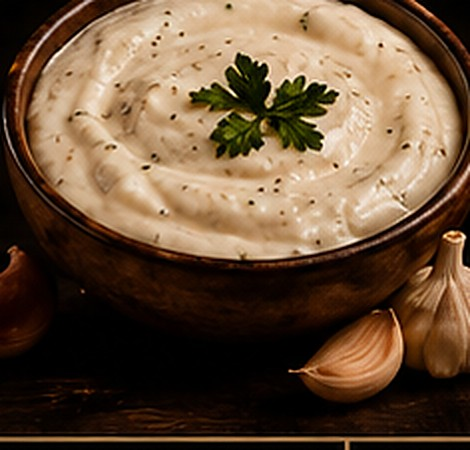
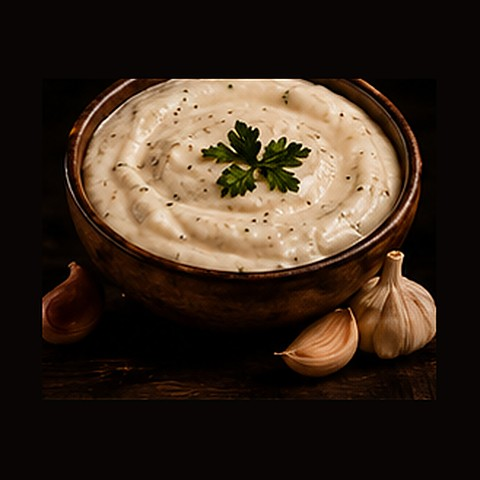
Shawarma Queen: real-inbox forms, contact links, reframed sauces, drop board
Launch-readiness pass:
- Wire the order + catering forms to a real email inbox via Web3Forms
  (no backend), with a graceful mailto fallback until the free access
  key is added. Payment stays in secure 4242 test mode.
- Replace placeholder Instagram / guessed Yelp links in the nav, mobile
  menu and footer with real Call + Get-directions actions (no live
  social accounts yet).
- Reframe the Garlic/Boom/Queen sauce photos with even dark margin so
  they sit framed instead of looking squeezed; give the garlic combo
  chip a bowl-filling crop to match the other sides.
- Remove the menu-board photo from the bottom of the menu.
- Bump the service worker cache to sq-v17.

Claude-Session: https://claude.ai/code/session_011DR8cieTFumMsx7RtYSGfN

diff --git a/sites/shawarma-queen/js/main.js b/sites/shawarma-queen/js/main.js
@@ -2,6 +2,29 @@
    All entrance states are set from JS so the page is fully
    readable with JavaScript disabled. */
 
+/* ── Shared form delivery ──────────────────────────────────────────
+   Order + catering submissions land in the shop's real email inbox via
+   Web3Forms (no backend, no build step). Paste the free access key below
+   — get one in ~30 seconds at https://web3forms.com by entering the
+   destination email; submissions are then delivered to that address.
+   Until a key is set, SQForms.hasInbox() is false and the forms fall
+   back to a prefilled mailto so nothing breaks. */
+window.SQForms = (function () {
+  var WEB3FORMS_KEY = ""; /* TODO: paste the Web3Forms access key here to go live */
+  return {
+    hasInbox: function () { return !!WEB3FORMS_KEY; },
+    send: function (subject, fields) {
+      var payload = { access_key: WEB3FORMS_KEY, subject: subject };
+      for (var k in fields) if (fields.hasOwnProperty(k)) payload[k] = fields[k];
+      return fetch("https://api.web3forms.com/submit", {
+        method: "POST",
+        headers: { "Content-Type": "application/json", Accept: "application/json" },
+        body: JSON.stringify(payload)
+      }).then(function (r) { return r.ok; }).catch(function () { return false; });
+    }
+  };
+})();
+
 (function () {
   "use strict";
 
@@ -41,9 +64,9 @@
     if (e.key === "Escape" && !mobileMenu.hidden) setMenu(false);
   });
 
-  /* ── Catering form → prefilled email ── */
-  /* TODO: swap the address below for Shawarma Queen's real inbox, or wire
-     the form to a service like Formspree for direct submissions. */
+  /* ── Catering form → real inbox (Web3Forms) with mailto fallback ── */
+  /* TODO: this is the address used only for the mailto fallback before a
+     Web3Forms key is set — swap it for Shawarma Queen's real inbox. */
   var CATERING_EMAIL = "[email redacted]";
   var form = document.querySelector(".catering-form");
   form.addEventListener("submit", function (e) {
@@ -52,18 +75,29 @@
     if (!form.reportValidity()) return;
     var v = function (name) { return (form.elements[name].value || "").trim(); };
     var subject = "Catering request — " + v("name") + (v("date") ? " (" + v("date") + ")" : "");
-    var body = [
-      "Name: " + v("name"),
-      "Phone: " + v("phone"),
-      "Event date: " + v("date"),
-      "Guests: " + v("guests"),
-      "",
-      v("notes")
+    var fields = {
+      name: v("name"), phone: v("phone"), date: v("date"),
+      guests: v("guests"), notes: v("notes")
+    };
+    var mailtoBody = [
+      "Name: " + v("name"), "Phone: " + v("phone"),
+      "Event date: " + v("date"), "Guests: " + v("guests"),
+      "", v("notes")
     ].join("\n");
-    window.location.href = "mailto:" + CATERING_EMAIL +
-      "?subject=" + encodeURIComponent(subject) +
-      "&body=" + encodeURIComponent(body);
-    status.textContent = "Opening your email app… If nothing happens, write to " + CATERING_EMAIL + ".";
+    var toMailto = function () {
+      window.location.href = "mailto:" + CATERING_EMAIL +
+        "?subject=" + encodeURIComponent(subject) +
+        "&body=" + encodeURIComponent(mailtoBody);
+      status.textContent = "Opening your email app… If nothing happens, write to " + CATERING_EMAIL + ".";
+    };
+    if (!window.SQForms || !window.SQForms.hasInbox()) { toMailto(); return; }
+    status.textContent = "Sending your request…";
+    window.SQForms.send(subject, fields).then(function (ok) {
+      if (ok) {
+        form.reset();
+        status.textContent = "Request sent! We'll get back to you with a quote within a day.";
+      } else { toMailto(); }
+    });
   });
 
   /* ── Motion (GSAP + ScrollTrigger) ── */
@@ -1145,9 +1179,15 @@
       "+" + earned + " earned" + (isTuesday ? " (double Tuesday)" : ""));
 
     if (link) window.open(link, "_blank", "noopener");
-    window.location.href = "mailto:" + ORDER_EMAIL +
-      "?subject=" + encodeURIComponent((isDelivery ? "Delivery" : "Pickup") + " order — " + name) +
-      "&body=" + encodeURIComponent(lines.join("\n"));
+
+    var orderSubject = (isDelivery ? "Delivery" : "Pickup") + " order — " + name;
+    var orderBody = lines.join("\n");
+    var toMailtoOrder = function () {
+      window.location.href = "mailto:" + ORDER_EMAIL +
+        "?subject=" + encodeURIComponent(orderSubject) +
+        "&body=" + encodeURIComponent(orderBody);
+    };
+
     setPts(getPts() - redeemed + earned);
     addHistory({
       d: Date.now(),
@@ -1158,9 +1198,23 @@
         return cart[k].qty + "× " + cart[k].name;
       }).join(", ")
     });
-    statusEl.textContent = link
-      ? "Payment page opened in a new tab — finish paying there, and send the order email so we can confirm."
-      : "Opening your email app to send the order — we'll text you to confirm.";
+
+    if (window.SQForms && window.SQForms.hasInbox()) {
+      statusEl.textContent = "Sending your order…";
+      window.SQForms.send(orderSubject, { name: name, phone: phone, order: orderBody })
+        .then(function (ok) {
+          if (ok) {
+            statusEl.textContent = link
+              ? "Order sent! Finish paying in the tab we opened — we'll text you to confirm."
+              : "Order sent! We'll text you at " + phone + " to confirm. 👑";
+          } else { toMailtoOrder(); }
+        });
+    } else {
+      toMailtoOrder();
+      statusEl.textContent = link
+        ? "Payment page opened in a new tab — finish paying there, and send the order email so we can confirm."
+        : "Opening your email app to send the order — we'll text you to confirm.";
+    }
   });
 
   /* Tiny public hook so other UI (the radial menu) can drop items into the

diff --git a/sites/shawarma-queen/index.html b/sites/shawarma-queen/index.html
@@ -32,10 +32,9 @@
       <details class="nav-drop">
         <summary><span class="nav-dock-ico"><svg viewBox="0 0 24 24" fill="none" stroke="currentColor" stroke-width="1.8" stroke-linecap="round" aria-hidden="true"><circle cx="12" cy="12" r="4"/><path d="M16 12v1.5a2.5 2.5 0 0 0 5 0V12a9 9 0 1 0-3.6 7.2"/></svg></span>Connect<svg class="nav-chevron" width="10" height="6" viewBox="0 0 10 6" fill="none" aria-hidden="true"><path d="M1 1l4 4 4-4" stroke="currentColor" stroke-width="1.4" stroke-linecap="round" stroke-linejoin="round"/></svg></summary>
         <div class="nav-drop-menu">
-          <!-- TODO: confirm the real social handles -->
-          <a href="https://www.instagram.com/" target="_blank" rel="noopener">Instagram</a>
-          <a href="https://www.yelp.com/biz/shawarma-queen-anaheim" target="_blank" rel="noopener">Yelp</a>
+          <a href="tel:[phone redacted]">Call [phone redacted]</a>
           <a href="https://maps.google.com/?q=430+S+Euclid+St,+Anaheim,+CA+92802" target="_blank" rel="noopener">Get directions</a>
+          <!-- TODO: add Instagram / Facebook / TikTok links here once the accounts are live -->
         </div>
       </details>
     </nav>
@@ -52,8 +51,8 @@
     <a href="#historia">Our Story</a>
     <a href="#visitanos">Visit Us</a>
     <div class="mobile-social">
-      <a href="https://www.instagram.com/" target="_blank" rel="noopener">Instagram</a>
-      <a href="https://www.yelp.com/biz/shawarma-queen-anaheim" target="_blank" rel="noopener">Yelp</a>
+      <a href="tel:[phone redacted]">Call</a>
+      <a href="https://maps.google.com/?q=430+S+Euclid+St,+Anaheim,+CA+92802" target="_blank" rel="noopener">Directions</a>
     </div>
     <a class="btn btn-solid js-open-order" href="#carta">Order now</a>
   </div>
@@ -270,7 +269,7 @@
           <ul class="ci-list" role="list">
             <li class="ci-item"><span class="ci-img"><img src="media/fries.jpg" alt="French fries" loading="lazy"></span><span class="ci-name">French Fries</span></li>
             <li class="ci-item"><span class="ci-img"><img src="media/coleslaw.jpg" alt="Coleslaw" loading="lazy"></span><span class="ci-name">Coleslaw</span></li>
-            <li class="ci-item"><span class="ci-img"><img src="media/garlic.jpg" alt="Garlic sauce" loading="lazy"></span><span class="ci-name">Garlic Sauce</span></li>
+            <li class="ci-item"><span class="ci-img"><img src="media/garlic-node.jpg" alt="Garlic sauce" loading="lazy"></span><span class="ci-name">Garlic Sauce</span></li>
             <li class="ci-item"><span class="ci-img"><img src="media/pickles.jpg" alt="Mixed pickles" loading="lazy"></span><span class="ci-name">Mixed Pickles</span></li>
           </ul>
         </div>
@@ -314,10 +313,6 @@
         <p class="carta-note" data-reveal>Grilled to perfection, made for kings &amp; queens.
         <!-- TODO: confirm final prices, tax, and any items not shown on the board. --></p>
 
-        <figure class="menu-board" data-reveal>
-          <img src="media/shawrma.jpg" alt="Shawarma Queen menu board — beef and chicken shawarma with prices and sauces" loading="lazy">
-          <figcaption>The board — straight from the shop.</figcaption>
-        </figure>
       </div>
     </section>
 
@@ -685,9 +680,9 @@
         <a href="#visitanos">Visit Us</a>
       </nav>
       <p class="footer-social">
-        <a href="https://www.instagram.com/" target="_blank" rel="noopener">Instagram</a>
+        <a href="tel:[phone redacted]">Call [phone redacted]</a>
         <span aria-hidden="true">·</span>
-        <a href="https://www.yelp.com/biz/shawarma-queen-anaheim" target="_blank" rel="noopener">Yelp</a>
+        <a href="https://maps.google.com/?q=430+S+Euclid+St,+Anaheim,+CA+92802" target="_blank" rel="noopener">Get directions</a>
       </p>
       <p class="footer-fine">© <span id="year">2026</span> Shawarma Queen · 430 S Euclid St, Anaheim, CA · Open till 3:30 am</p>
     </div>

diff --git a/sites/shawarma-queen/sw.js b/sites/shawarma-queen/sw.js
@@ -3,7 +3,7 @@
    cache-first for static assets. Bump CACHE on deploys that change
    core assets. */
 
-var CACHE = "sq-v16";
+var CACHE = "sq-v17";
 var CORE = [
   "./",
   "index.html",
@@ -28,6 +28,7 @@ var CORE = [
   "media/garlic.jpg",
   "media/boom.jpg",
   "media/queen.jpg",
+  "media/garlic-node.jpg",
   "media/beef-node.jpg",
   "media/chicken-node.jpg",
   "media/boom-node.jpg",
@@ -36,8 +37,7 @@ var CORE = [
   "media/chicken-spit.jpg",
   "media/fries.jpg",
   "media/coleslaw.jpg",
-  "media/pickles.jpg",
-  "media/shawrma.jpg"
+  "media/pickles.jpg"
 ];
 
 self.addEventListener("install", function (e) {

diff --git a/sites/shawarma-queen/css/styles.css b/sites/shawarma-queen/css/styles.css
@@ -1321,10 +1321,6 @@ em { font-style: italic; }
 .showcase-sauces .showcase-card figcaption { font-size: 0.98rem; padding: 0.85rem 0.8rem 0.7rem; }
 .showcase-card .sc-tag { font-family: var(--font-body); font-size: 0.66rem; letter-spacing: 0.1em; color: var(--gold); text-transform: uppercase; white-space: nowrap; }
 
-.menu-board { max-width: 900px; margin: var(--space-7) auto 0; border-radius: 16px; overflow: hidden; border: 1px solid var(--plum-edge); background: #000; }
-.menu-board img { display: block; width: 100%; height: auto; }
-.menu-board figcaption { text-align: center; padding: 0.9rem 1rem; font-size: 0.85rem; color: var(--cream-35); }
-
 @media (max-width: 640px) { .showcase-mains { grid-template-columns: 1fr; } }
 
 /* ─── Spit banner — the fiery rotisserie pair that opens the menu ─── */